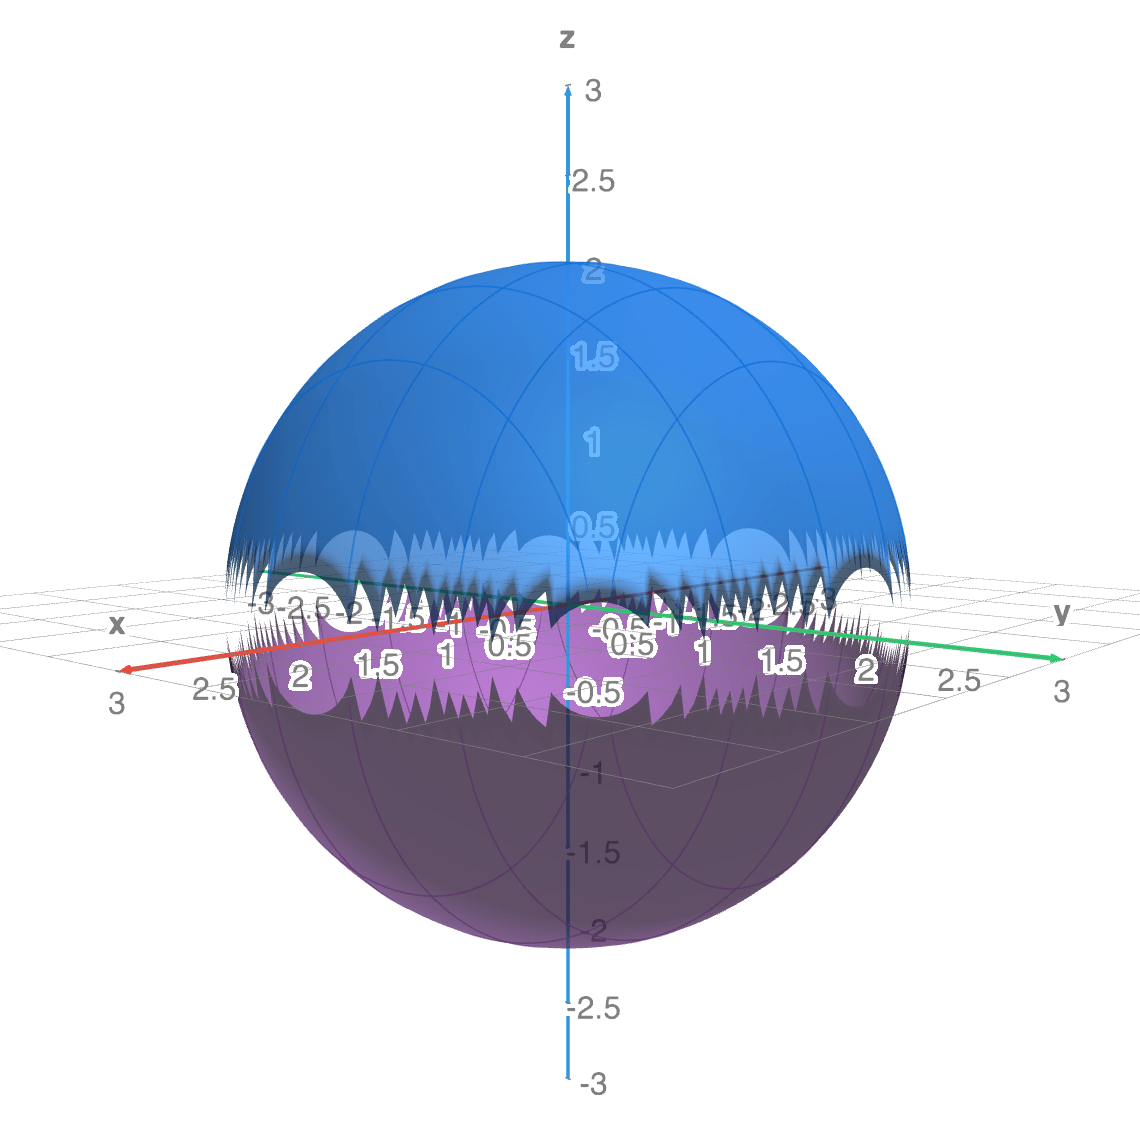
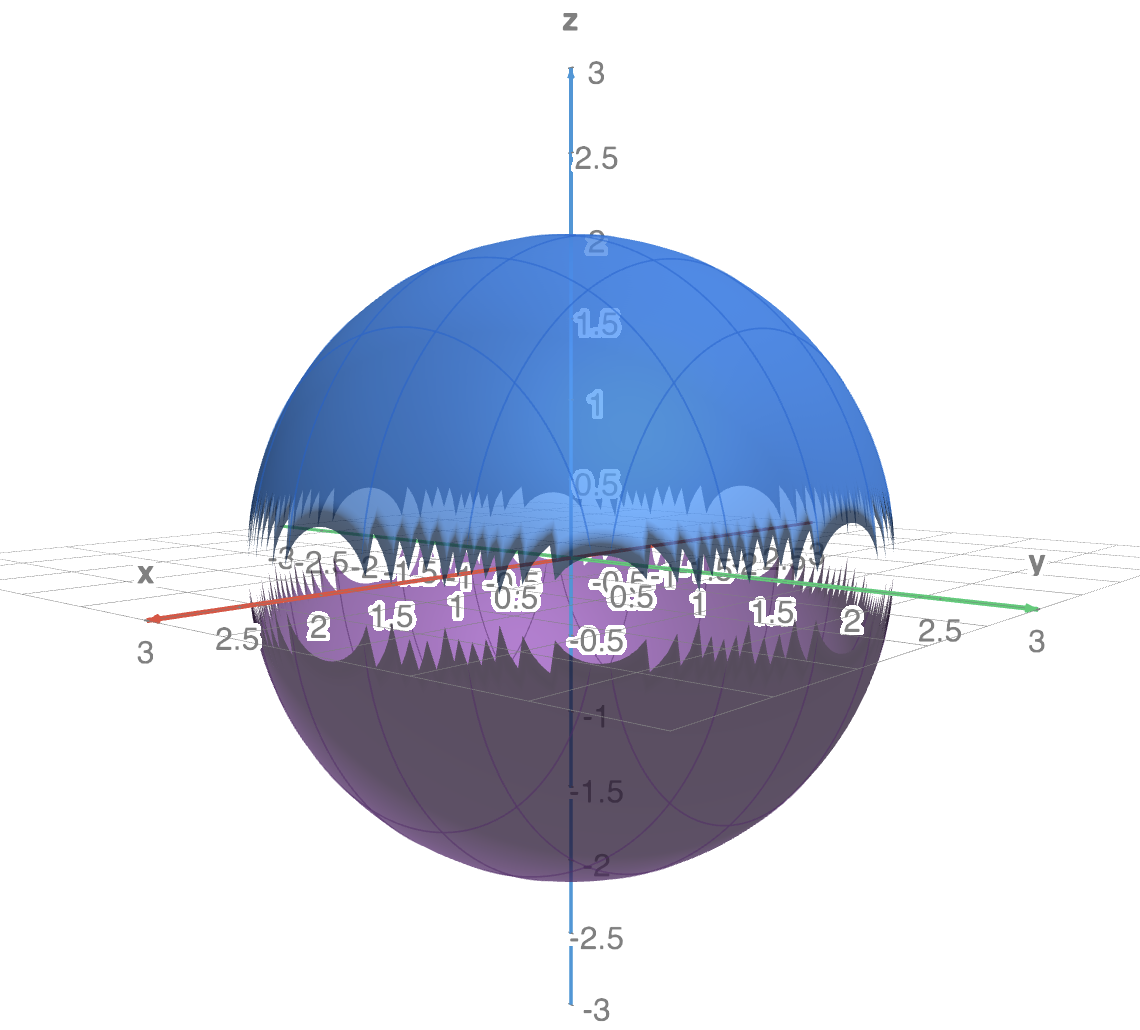
ok

diff --git a/math2001/chapter-40.html b/math2001/chapter-40.html
@@ -260,12 +260,12 @@ determine bounds on the parameters.
 						
 					</div>
 
-					<div style="margin-top: -10px;">
-						<table>
+					<div style="margin-top: -30px;">
+						<table style="width: 100%;">
 							<tr>
-								<td style="text-align:center" class="fragment" data-fragment-index="0">
-									<div style="margin-top:-20px;" >
-										<img style="width:84%;margin:0" src="images/chapter-40/sphere-cartesian.png">
+								<td style="text-align:center;width:50%" class="fragment" data-fragment-index="0" >
+									<div >
+										<img style="width:100%;" src="images/chapter-40/sphere-cartesian.png">
 									</div>
 									<div style="margin-top: -30px;">
 										<span style="font-size:45%">
@@ -273,11 +273,10 @@ determine bounds on the parameters.
 										</span>
 									</div>
 									
-								
 								</td>
-								<td style="text-align:center" class="fragment" data-fragment-index="1">
-									<div style="margin-top:-20px" >
-										<img style="width:100%;margin:0" src="images/chapter-40/sphere-parametric.png">
+								<td style="text-align:center;width:50%" class="fragment" data-fragment-index="1" >
+									<div>
+										<img style="width:100%;" src="images/chapter-40/sphere-parametric.png">
 									</div>
 									<div style="margin-top: -30px;">
 										<span style="font-size:45%">
